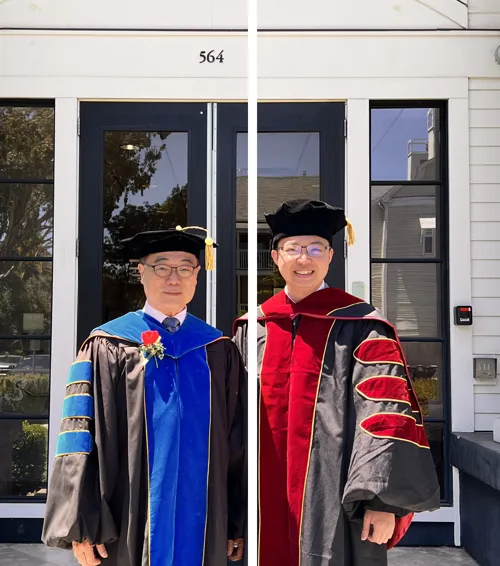
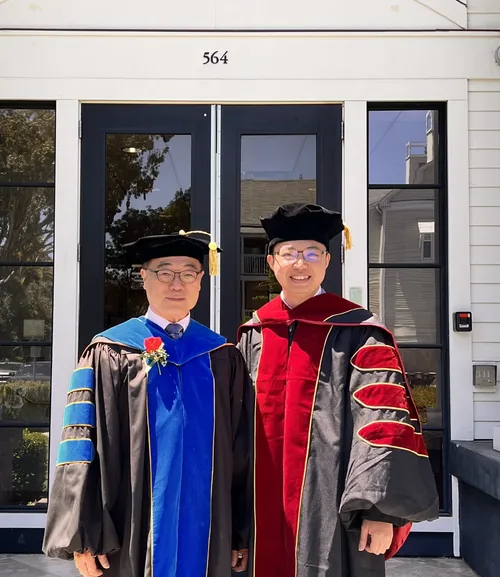
v12.2: remove 18px white seam baked into win-doctoral photo (columns rejoined, no retouch of people)

diff --git a/us-3top-2027-merged/index.html b/us-3top-2027-merged/index.html
@@ -136,7 +136,7 @@
 </div></section>
 <!-- 20 FOUNDER -->
 <section class="dark founder f-short" id="founder"><div class="wrap fs-in">
-<figure class="fs-ph rv"><img alt="Win 教授學術交流紀錄" loading="lazy" src="assets/img/win-doctoral-500.webp" srcset="assets/img/win-doctoral-500.webp 500w, assets/img/win-doctoral-1000.webp 1000w" sizes="220px"/><figcaption>學術交流紀錄</figcaption></figure>
+<figure class="fs-ph rv"><img alt="Win 教授學術交流紀錄" loading="lazy" src="assets/img/win-doctoral-500.webp" srcset="assets/img/win-doctoral-500.webp 500w, assets/img/win-doctoral-1000.webp 976w" sizes="220px"/><figcaption>學術交流紀錄</figcaption></figure>
 <div class="rv d1"><div class="eyebrow">計畫主持人</div>
 <p class="name"><b>Win 教授（林嘉宏）</b>華沃國際教育創辦人</p>
 <ul class="creds">
